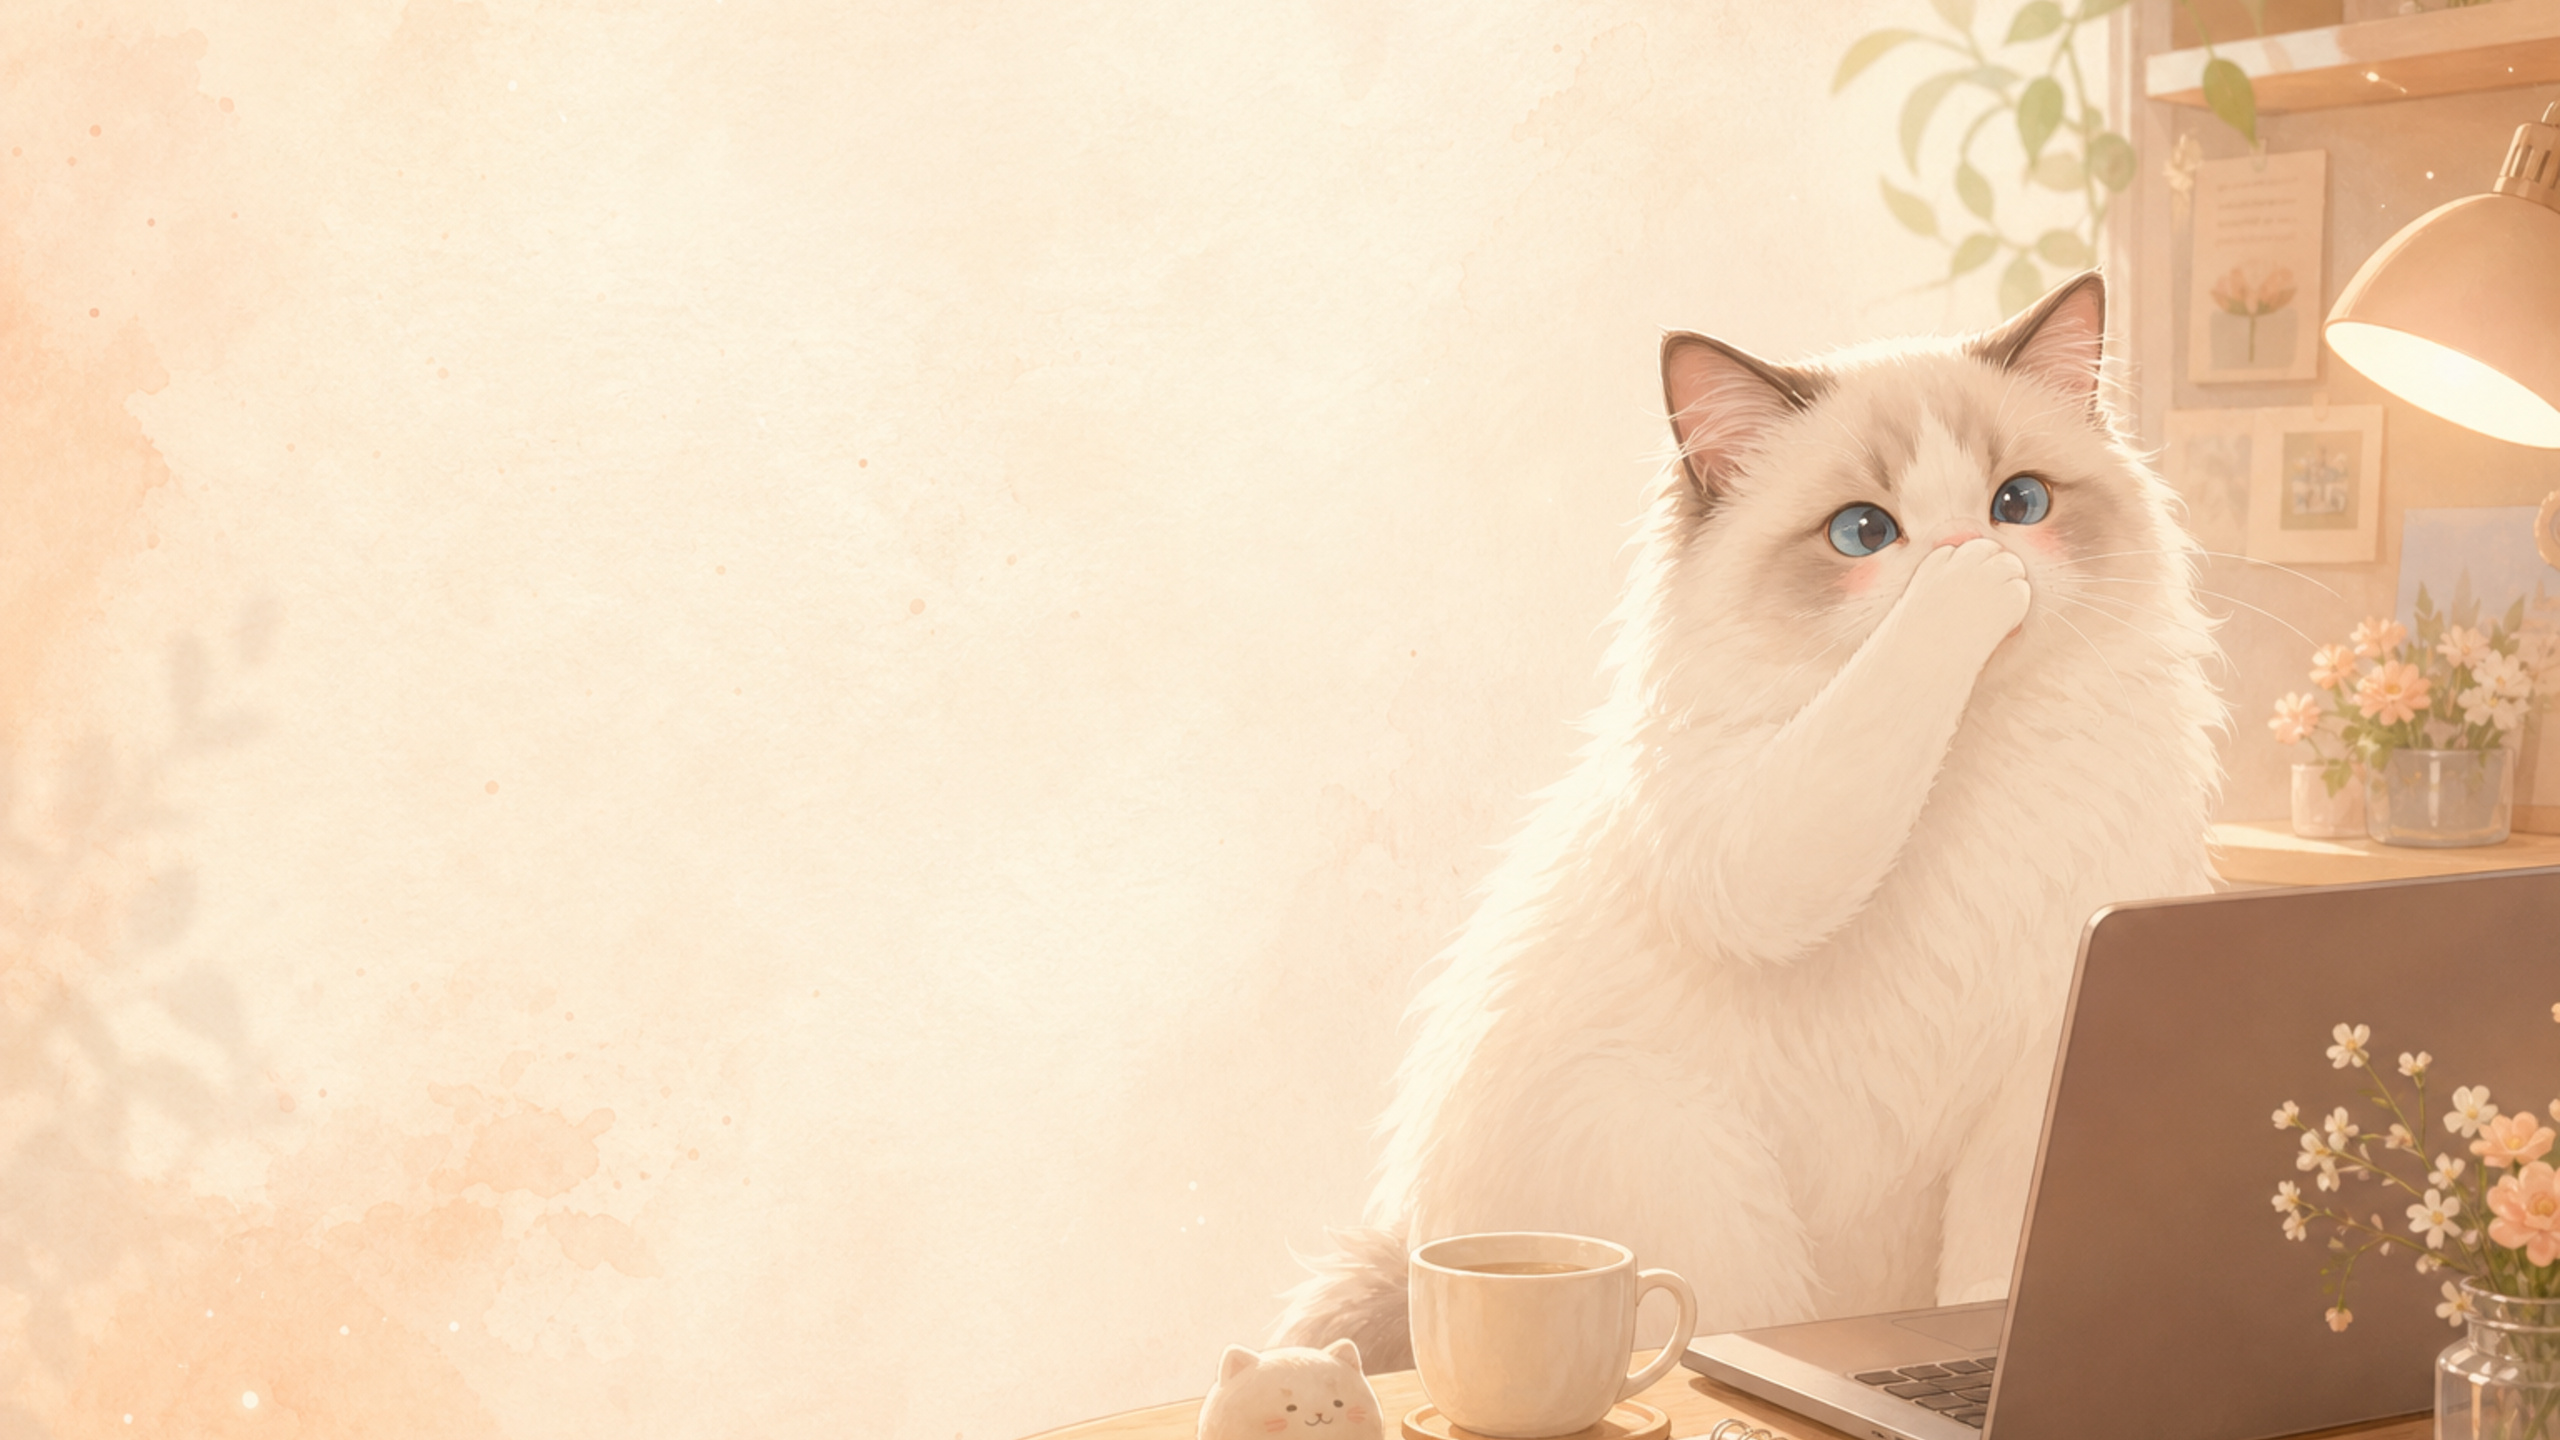
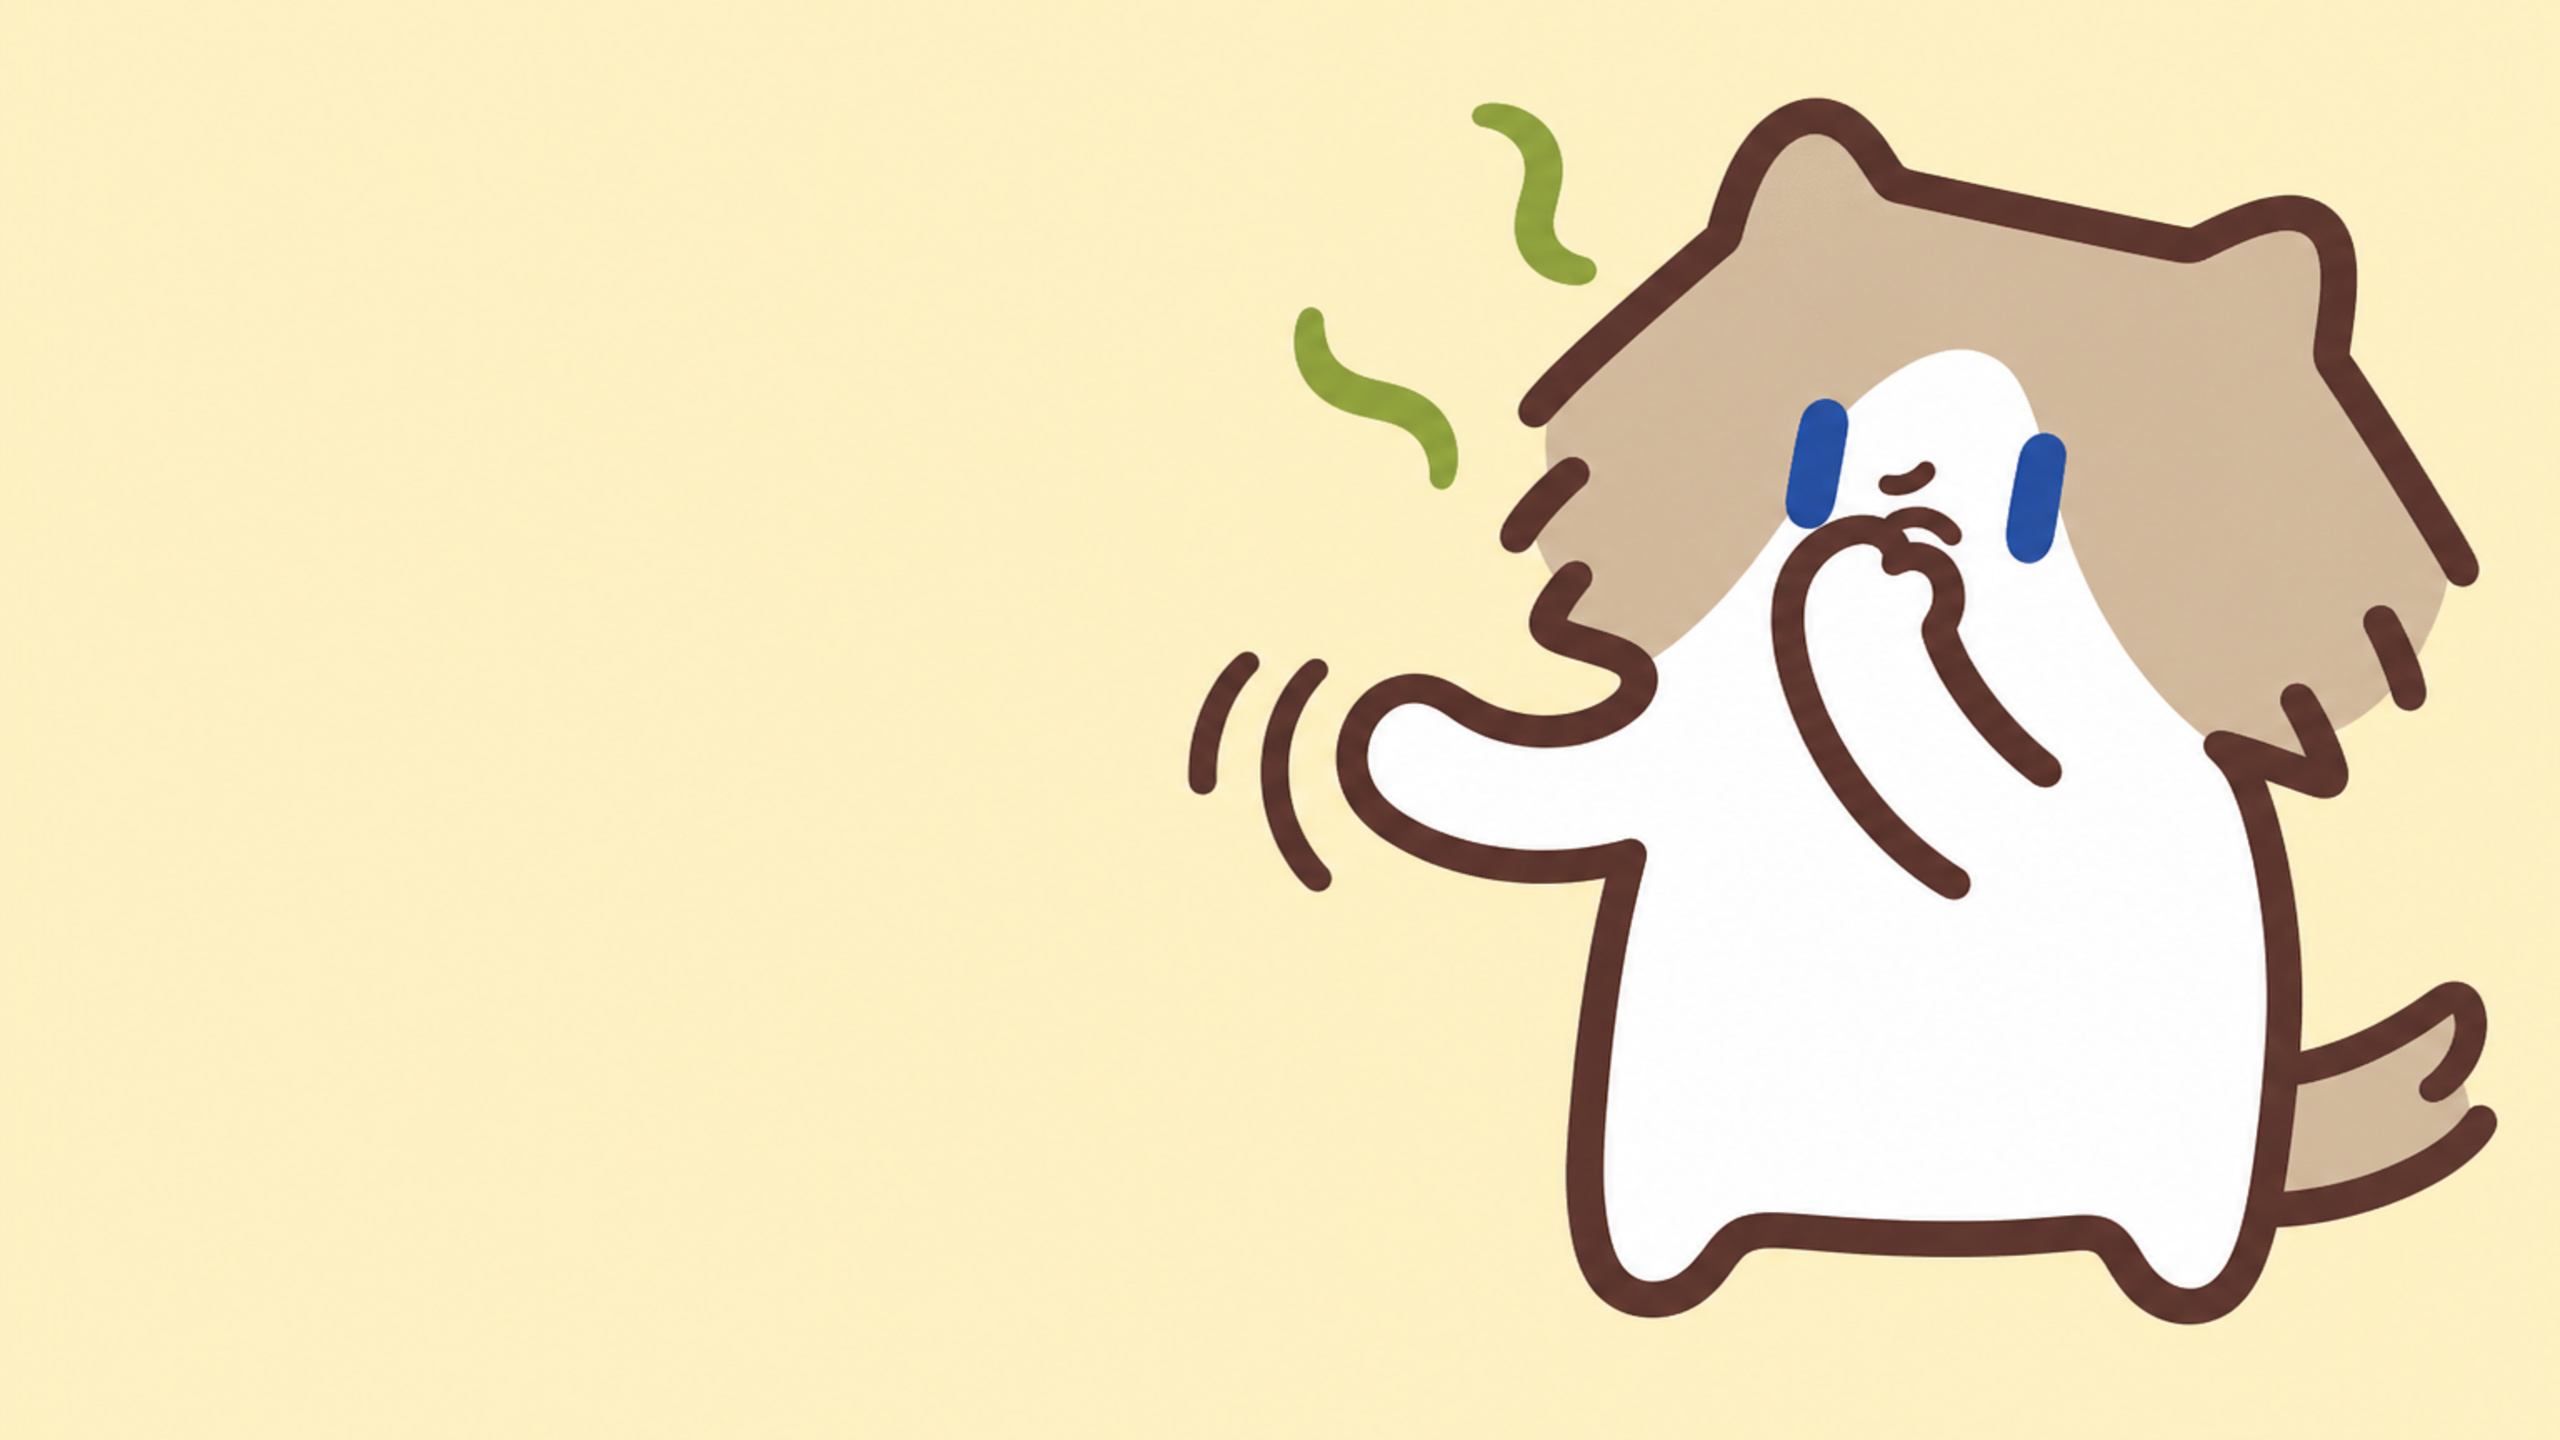
Redraw 月薪喵 skin to match viral sticker look (not photoreal cat).

diff --git a/presets/preset-trial-yuexin-miao/SOURCE.md b/presets/preset-trial-yuexin-miao/SOURCE.md
@@ -1,6 +1,8 @@
 # 试装 · 月薪喵
 
-原创氛围壁纸，灵感来自近期抖音/表情包热梗「月薪喵」的奶油布偶猫与软萌打工感，**非官方 IP、非原作表情包复制**。
+氛围皮肤。视觉参考全网爆火的「月薪喵」表情包辨识度：
+极简手绘贴纸风、白身子、米棕耳朵/头顶、蓝色椭圆竖眼、粗棕描边、捂鼻散味姿态。
 
-- Rights: original illustration generated for agent-skin-hub
-- Compatible: ProvDex Codex appearance / agent-skin-hub apply script
+**原创绘制，非官方表情包原图复制，非商业授权 IP 资产。**
+
+- Compatible: ProvDex / agent-skin-hub apply script